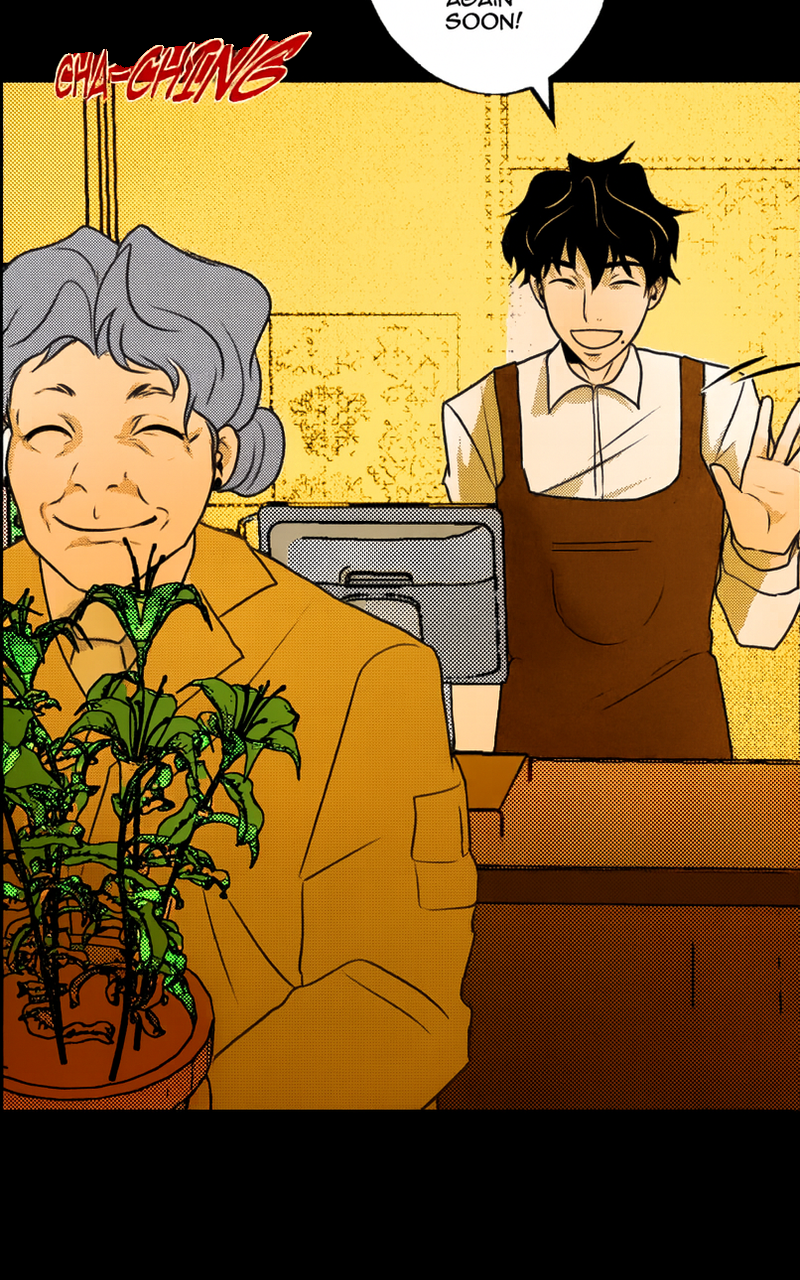
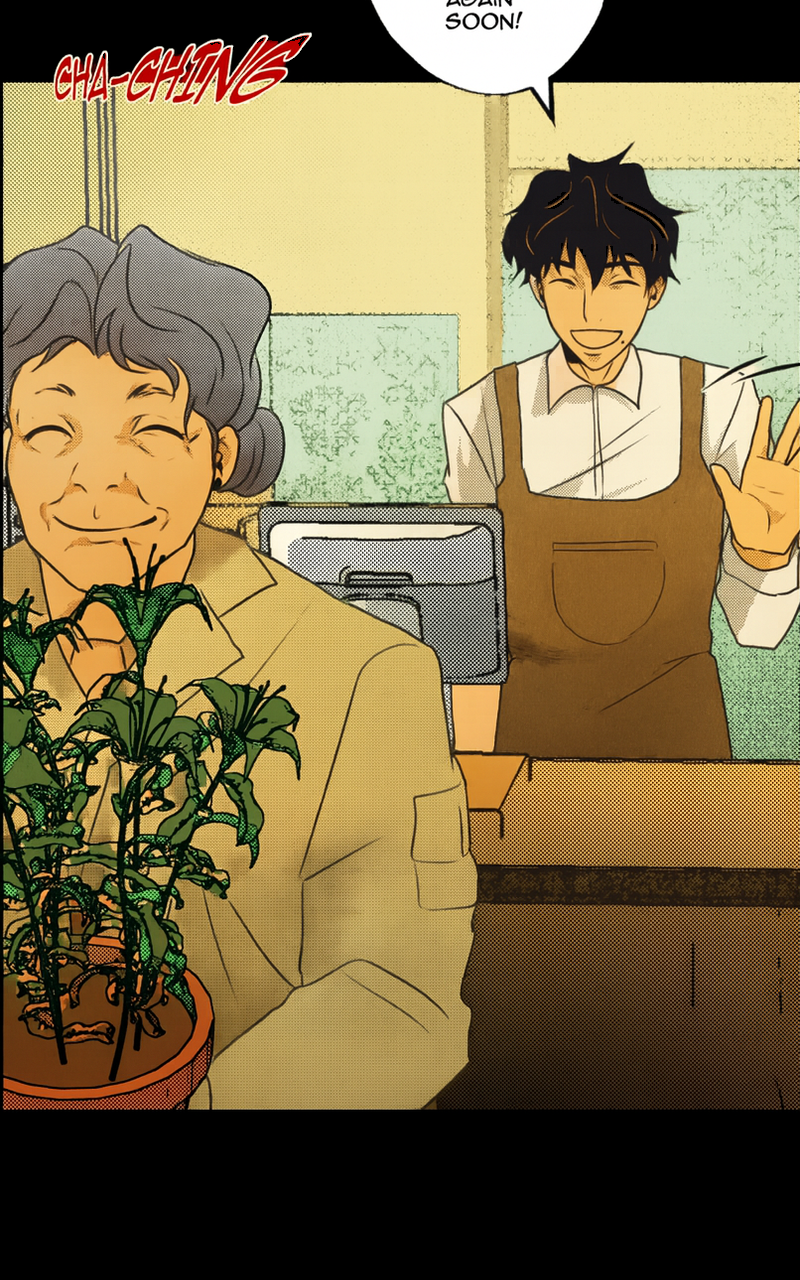
colors looking better

diff --git a/colorizer.js b/colorizer.js
@@ -47,6 +47,9 @@ const MIN_SEGMENT_H = 100;
 // Intelligent context capture — learns color choices for unlocked elements.
 const CAPTURE_CONTEXT = process.env.CAPTURE_CONTEXT !== "false"; // default true
 
+// Black restoration post-processing — set to "false" to disable
+const RESTORE_BLACKS = process.env.RESTORE_BLACKS !== "false"; // default true
+
 // System-level instructions — sent via the `instructions` parameter.
 // Keep this minimal — just role and safety context.
 const SYSTEM_INSTRUCTIONS = `
@@ -63,7 +66,7 @@ Colorize this black-and-white webtoon panel in modern Korean manhwa style.
 STYLE: Vibrant, balanced colors. Mix of warm earth tones (tan, cream, brown) and cool accents. Natural greens for plants. Clean cel-shading. Professional webtoon quality like "Solo Leveling" or "Tower of God". Balanced white point — not too warm, not too cool.
 
 COLORS:
-- Skin: Light Korean skin tone (#F5D6C3), warm peach. All faces and exposed skin must be colored.
+- Skin: Light Korean skin tone (#FAE0D4), fair warm peach. All faces and exposed skin must be colored. Keep skin light and bright, not tan or dark.
 - Eyes: White sclera (#FFFFFF), not flesh-colored.
 - Speech bubbles: EXACTLY as drawn — white fill (#FFFFFF) with black outline (#000000). Do NOT add any color to speech bubble outlines. Do NOT add colored borders, glows, or shadows around speech bubbles. The bubble outline must remain pure black, not tan/gold/brown.
 - Sound effects text: Use colors that match the mood — red/orange for excitement, keep them readable.
@@ -410,21 +413,23 @@ async function isBlankSegment(buf) {
 }
 
 // ── Post-process: restore black pixels from original ─────────────────────
-// Hybrid approach: Edge-connected flood fill + local density verification
+// Hybrid approach: Edge-connected flood fill + speech bubble awareness
 //
-// Pure edge-connected flood fill is too aggressive — artwork black that
-// happens to touch the image edge gets restored incorrectly.
+// Problem: Speech bubbles (white) break edge-connectivity, leaving black
+// pixels around bubbles unrestored even though they're in black regions.
 //
-// Solution: A dark pixel is only restored if BOTH conditions are true:
-// 1. It's edge-connected (reachable from image border via dark pixels)
-// 2. It's in a high-density region (local 33x33 block is 70%+ dark)
-//
-// This prevents isolated artwork black near edges from being restored,
-// while still correctly restoring large structural black regions.
+// Solution:
+// 1. Find edge-connected dark pixels (flood fill from image borders)
+// 2. Also find dark pixels adjacent to large white regions (speech bubbles)
+//    that are in high-density black areas
+// 3. Restore dark pixels that are either edge-connected OR bubble-adjacent,
+//    but only if they're in a high-density region (70%+ dark locally)
 
-const BLACK_RESTORE_THRESHOLD = 5;  // RGB < 5 = "true black"
-const LOCAL_CHECK_RADIUS = 16;      // 33x33 block for density check
-const LOCAL_DENSITY_MIN = 0.70;     // block must be 70%+ dark
+const BLACK_RESTORE_THRESHOLD = 5;   // RGB < 5 = "true black"
+const WHITE_THRESHOLD = 250;          // RGB > 250 = "white" (speech bubbles)
+const LOCAL_CHECK_RADIUS = 16;        // 33x33 block for density check
+const LOCAL_DENSITY_MIN = 0.70;       // block must be 70%+ dark
+const BUBBLE_SEARCH_RADIUS = 3;       // how far to look for white pixels
 
 async function restoreBlacks(originalBuf, colorizedBuf) {
   const origRaw = await sharp(originalBuf).ensureAlpha().raw().toBuffer({ resolveWithObject: true });
@@ -436,17 +441,18 @@ async function restoreBlacks(originalBuf, colorizedBuf) {
   const h = origRaw.info.height;
   const ch = origRaw.info.channels;
 
-  // Build binary dark map
+  // Build binary maps for dark and white pixels
   const dark = new Uint8Array(w * h);
+  const white = new Uint8Array(w * h);
   for (let y = 0; y < h; y++) {
     for (let x = 0; x < w; x++) {
       const p = (y * w + x) * ch;
-      if (
-        oD[p] < BLACK_RESTORE_THRESHOLD &&
-        oD[p + 1] < BLACK_RESTORE_THRESHOLD &&
-        oD[p + 2] < BLACK_RESTORE_THRESHOLD
-      ) {
+      const r = oD[p], g = oD[p + 1], b = oD[p + 2];
+      if (r < BLACK_RESTORE_THRESHOLD && g < BLACK_RESTORE_THRESHOLD && b < BLACK_RESTORE_THRESHOLD) {
         dark[y * w + x] = 1;
+      }
+      if (r > WHITE_THRESHOLD && g > WHITE_THRESHOLD && b > WHITE_THRESHOLD) {
+        white[y * w + x] = 1;
       }
     }
   }
@@ -476,6 +482,21 @@ async function restoreBlacks(originalBuf, colorizedBuf) {
     const d = y1 * sw + x1;
     const darkCount = sat[a] - sat[b] - sat[c] + sat[d];
     return darkCount / blockSize;
+  }
+
+  // Check if a pixel is near a white region (speech bubble)
+  function isNearWhite(cx, cy) {
+    const r = BUBBLE_SEARCH_RADIUS;
+    for (let dy = -r; dy <= r; dy++) {
+      for (let dx = -r; dx <= r; dx++) {
+        const nx = cx + dx;
+        const ny = cy + dy;
+        if (nx >= 0 && nx < w && ny >= 0 && ny < h) {
+          if (white[ny * w + nx]) return true;
+        }
+      }
+    }
+    return false;
   }
 
   // Track which dark pixels are edge-connected
@@ -519,20 +540,24 @@ async function restoreBlacks(originalBuf, colorizedBuf) {
     }
   }
 
-  // Restore pixels that are BOTH edge-connected AND in high-density regions
+  // Restore dark pixels that meet criteria
   for (let y = 0; y < h; y++) {
     for (let x = 0; x < w; x++) {
       const idx = y * w + x;
-      if (!edgeConnected[idx]) continue;
+      if (!dark[idx]) continue;
 
-      // Check local density — only restore if in a dense black region
-      if (getLocalDensity(x, y) >= LOCAL_DENSITY_MIN) {
-        const p = idx * ch;
-        cD[p] = 0;
-        cD[p + 1] = 0;
-        cD[p + 2] = 0;
-        cD[p + 3] = 255;
-      }
+      // Must be in a high-density region
+      const density = getLocalDensity(x, y);
+      if (density < LOCAL_DENSITY_MIN) continue;
+
+      // Must be either edge-connected OR near a speech bubble
+      if (!edgeConnected[idx] && !isNearWhite(x, y)) continue;
+
+      const p = idx * ch;
+      cD[p] = 0;
+      cD[p + 1] = 0;
+      cD[p + 2] = 0;
+      cD[p + 3] = 255;
     }
   }
 
@@ -678,7 +703,7 @@ async function colorizeSegment(segBuf, index, total, prompt) {
 
   // Restore blacks at working resolution so both images are at the same scale.
   // This avoids jagged artifacts from comparing crisp originals against upscaled output.
-  const restored = await restoreBlacks(workBuf, cropped);
+  const restored = RESTORE_BLACKS ? await restoreBlacks(workBuf, cropped) : cropped;
 
   // Upscale to original full-res dimensions
   if (workW !== origW || workH !== origH) {
